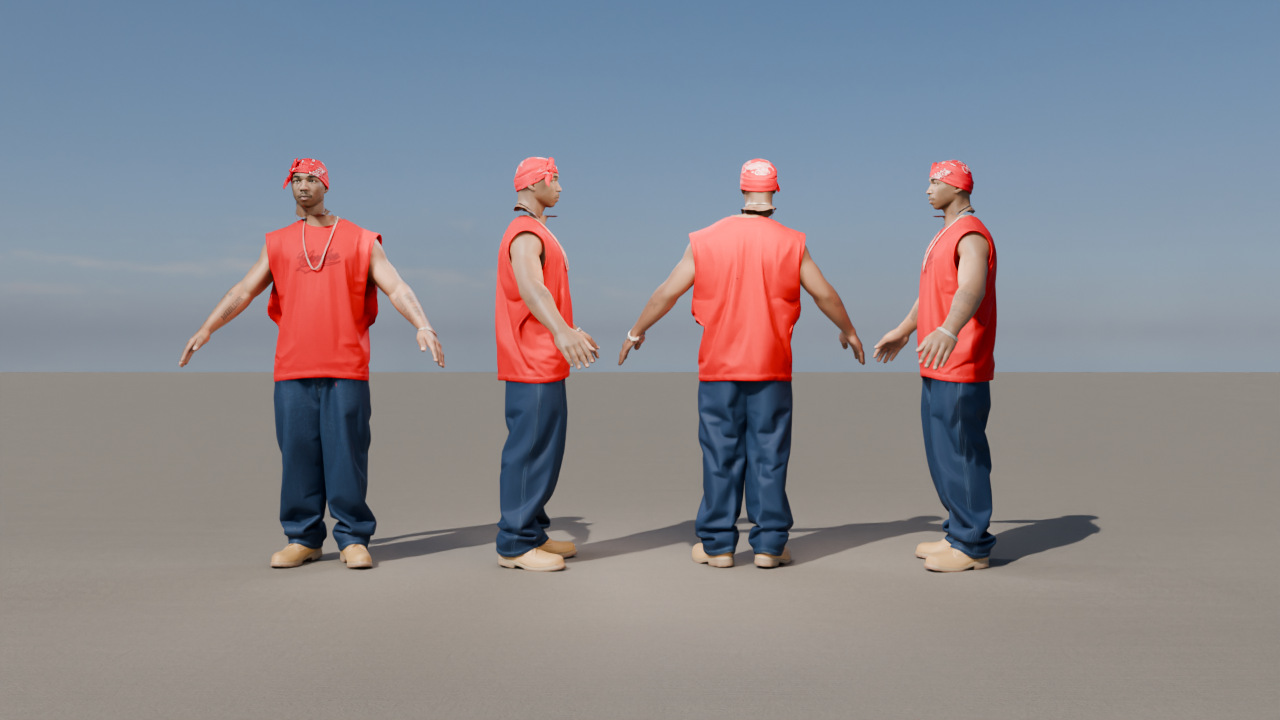
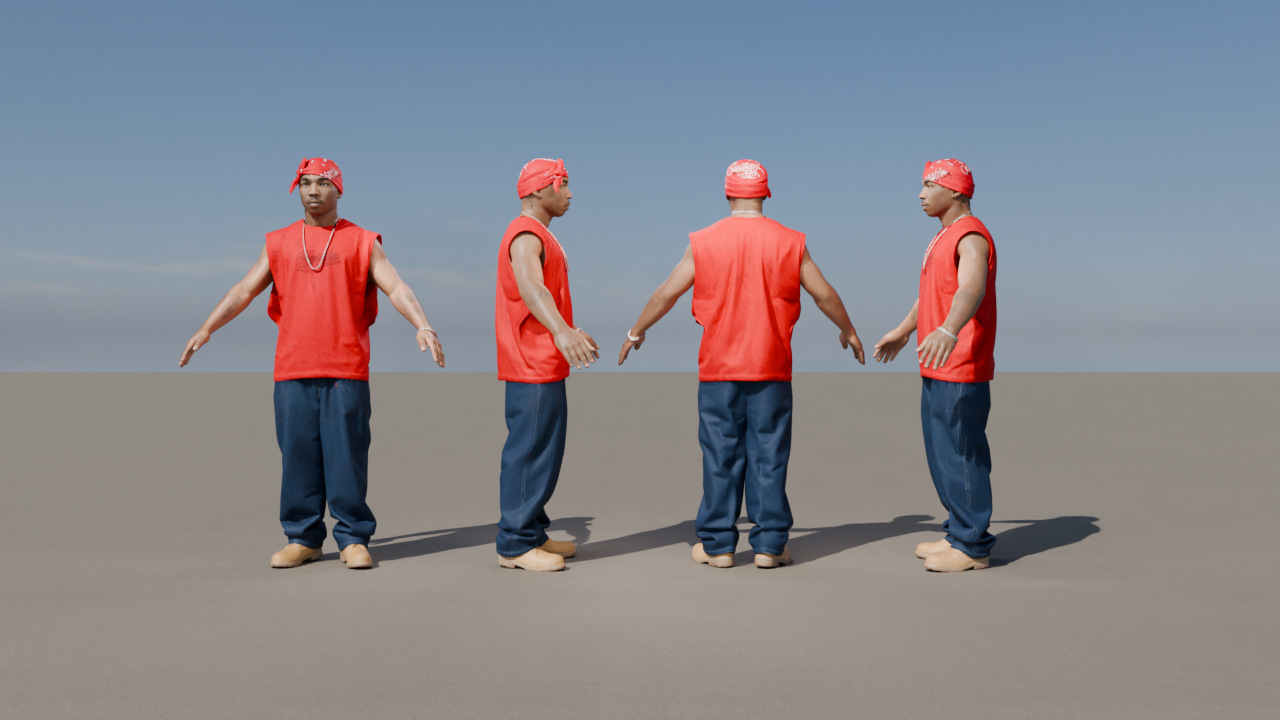
Rule likeness: previews round 1; fixes for round 2 (no swelling at the wrist union, palm colour by region, flat normals on island edges, skin tone, chunkier bracelet, bust neck edge under the collar)
Claude-Session: https://claude.ai/code/session_01HkcHdD7NbyxwnFfuuSpZY4

diff --git a/art/blender/assets/rule.py b/art/blender/assets/rule.py
@@ -175,7 +175,9 @@ def whole_field(R, hand):
     hf = hand.field(True)
 
     def f(p):
-        return sdf.smin(arm(p), hf(p), 0.011)
+        # nearly a plain union: the hand carries its own wrist piece with the same section as the arm there, and
+        # a wide smooth union of two coincident surfaces swells them (k / 4) and leaves a ring where one ends
+        return sdf.smin(arm(p), hf(p), 0.003)
     return f
 
 
@@ -449,15 +451,15 @@ def build_arms(ctx):
 
 
 def bracelet(col, R):
-    """SM_Character_RuleBracelet: a heavy silver curb chain, 26 links of 3.2 mm wire pressed flat and twisted
+    """SM_Character_RuleBracelet: a heavy silver curb chain, 24 links of 4.2 mm wire pressed flat and twisted
     against each other, hanging loose round the wrist (3 mm clear, 4 mm sag underneath), with a box clasp.
     Origin = attach frame (characters.attach_frame): X across the arm, Y toward the elbow, Z out of the back."""
     from mi import mat as _mat
     silver = _mat.flat("M_Character_RuleBracelet_Silver", (0.96, 0.95, 0.93), 0.12, 1.0)
     silver2 = _mat.flat("M_Character_RuleBracelet_SilverWorn", (0.90, 0.89, 0.87), 0.22, 1.0)
-    a = C._interp(FOREARM, BRACELET_S, 1) / 2 + 0.0030 + 0.0028
-    b = C._interp(FOREARM, BRACELET_S, 2) / 2 + 0.0030 + 0.0028
-    n = 26
+    a = C._interp(FOREARM, BRACELET_S, 1) / 2 + 0.0030 + 0.0032
+    b = C._interp(FOREARM, BRACELET_S, 2) / 2 + 0.0030 + 0.0032
+    n = 24
     pts, _t = C._ellipse_path(a, b, 600, sag=0.004)
     seg = np.linalg.norm(np.roll(pts, -1, axis=0) - pts, axis=1)
     cum = np.concatenate([[0], np.cumsum(seg)])
@@ -476,10 +478,10 @@ def bracelet(col, R):
             geo.transform(bx, loc=tuple(mid))
             parts.append(C._mat_all(bx, silver))
             continue
-        lk = geo.torus(major=0.0034, minor=0.0016, seg_major=40, seg_minor=12, name="Link",
-                       stretch=max(total / n * 1.8 - 0.0100, 0.001))
-        geo.transform(lk, scale=(1.0, 1.0, 0.60))
-        geo.transform(lk, rot=(34 if i % 2 else -34, 0, 0))
+        lk = geo.torus(major=0.0031, minor=0.0021, seg_major=30, seg_minor=10, name="Link",
+                       stretch=max(total / n * 1.9 - 0.0104, 0.001))
+        geo.transform(lk, scale=(1.0, 1.0, 0.55))
+        geo.transform(lk, rot=(40 if i % 2 else -40, 0, 0))
         ang = math.degrees(math.atan2(tang[2], tang[0]))
         geo.transform(lk, rot=(0, -ang, 0))
         geo.transform(lk, loc=tuple(mid))
@@ -513,6 +515,12 @@ def bake_skin(ctx, ob, res):
     hh = hh.reshape(H, W)
     hd = texel.dilate(hh, mask, 4)
     nrm = texel.normal_from_height(hd, maps["pos"], mask)
+    inner = mask.copy()                                    # the jagged edge texels of an island: flat normals
+    for ax in (0, 1):
+        for sh in (1, -1, 2, -2):
+            inner &= np.roll(mask, sh, axis=ax)
+    nrm[mask & ~inner] = (0.5, 0.5, 1.0)
+    nrm = texel.dilate(nrm, inner, 4)
     cav = np.clip(texel.blur(hd, 3) - hd, 0, None)
     ao = np.clip(1.0 - cav / 0.00025, 0.6, 1.0)
     aol = _bake._bake_ao(ob, 1024, 16, 0, 0.03, False)
@@ -535,7 +543,7 @@ def textured_materials():
     M_RuleArms_Nail default lit, both on the same three textures)."""
     out = {}
     d = paths.texture_set("RuleArms_Skin")
-    for name, sss, coat in (("M_RuleArms_Skin", 0.30, 0.0), ("M_RuleArms_Nail", 0.05, 0.35)):
+    for name, sss, coat in (("M_RuleArms_Skin", 0.18, 0.0), ("M_RuleArms_Nail", 0.05, 0.35)):
         m = bpy.data.materials.get(name) or bpy.data.materials.new(name)
         nt = m.node_tree
         for nd in list(nt.nodes):

diff --git a/art/blender/assets/_rule_body.py b/art/blender/assets/_rule_body.py
@@ -145,7 +145,7 @@ def swap_head(body, btex, head, htex, log=print):
     sl = (cb[:, 2] > zb + 0.015) & (cb[:, 2] < zb + 0.045) & ~redb & (np.abs(cb[:, 0]) < 0.12)
     hx, hy = _mid(cb[sl, 0]), _mid(cb[sl, 1])                       # centre of the neck's section
     near = np.hypot(cb[:, 0] - hx, cb[:, 1] - hy) < 0.085          # the neck, not the shoulders or arms
-    kill = (cb[:, 2] > zb + 0.06) | ((cb[:, 2] > zb - 0.055) & ~redb & near)
+    kill = (cb[:, 2] > zb + 0.06) | ((cb[:, 2] > zb - 0.03) & ~redb & near)
     gen3d.delete_faces(body, kill)
     log("  body: neckline z %.3f of %.3f, head and neck removed (%d faces)" % (zb, topb, kill.sum()))
     ch, nh, ah = gen3d.face_arrays(head)
@@ -166,11 +166,25 @@ def swap_head(body, btex, head, htex, log=print):
     sl = (ch2[:, 2] > 0.015) & (ch2[:, 2] < 0.045) & ~redh2
     dx, dy = hx - _mid(ch2[sl, 0]), hy - _mid(ch2[sl, 1])
     co += [dx, dy, zb]
-    # the bottom of the neck narrows a little so its cut edge stays inside the body's collar
-    t = np.clip((zb + 0.015 - co[:, 2]) / 0.035, 0, 1)
-    k = 1.0 - 0.10 * t
-    co[:, 0] = hx + (co[:, 0] - hx) * k
-    co[:, 1] = hy + (co[:, 1] - hy) * k
+    gen3d.set_verts(head, co)
+    # the cut edge of the bust's neck is carried 2.5 cm down (and its next ring half as far), so it ends under
+    # the body's collar all round instead of just above it at the front
+    import bmesh
+    bm = bmesh.new()
+    bm.from_mesh(head.data)
+    edge_v = {v.index for e in bm.edges if len(e.link_faces) == 1 for v in e.verts}
+    bm.verts.ensure_lookup_table()
+    ring = set()
+    for i in edge_v:
+        for e in bm.verts[i].link_edges:
+            ring.add(e.other_vert(bm.verts[i]).index)
+    ring -= edge_v
+    bm.free()
+    low = co[:, 2] < zb + 0.04
+    for idx, d in ((sorted(edge_v), 0.025), (sorted(ring), 0.012)):
+        idx = np.array([i for i in idx if low[i]], dtype=np.int64)
+        if len(idx):
+            co[idx, 2] -= d
     gen3d.set_verts(head, co)
     log("  head: neckline %.3f of %.3f in the bust, scale %.3f, %d faces removed; neck centres body (%.3f, %.3f), "
         "bust moved by (%.3f, %.3f)" % (zh, toph, s, killh.sum(), hx, hy, dx, dy))

diff --git a/art/blender/assets/_rule_tex.py b/art/blender/assets/_rule_tex.py
@@ -17,8 +17,8 @@ from . import characters as C
 from . import _characters_tex as X
 
 # his skin, measured on the reference sheet under even light (sRGB): back of the forearm, palm, nail bed
-SKIN = np.array(C.srgb("#7b4e35"), dtype=np.float32)
-PALM = np.array(C.srgb("#b07a62"), dtype=np.float32)
+SKIN = np.array(C.srgb("#6f4a39"), dtype=np.float32)
+PALM = np.array(C.srgb("#a7796a"), dtype=np.float32)
 KNUCKLE = np.array(C.srgb("#4e3022"), dtype=np.float32)
 NAIL = np.array(C.srgb("#b88f7f"), dtype=np.float32)
 LUNULA = np.array(C.srgb("#d6b8ab"), dtype=np.float32)
@@ -169,12 +169,12 @@ def skin_texels(R, P, N, region, side, charts):
     hand = T.smoothstep(0.035, 0.005, s)                                      # 1 on the hand, 0 up the forearm
     reg = np.rint(region).astype(int)
     # back / palm: by region where the faces say so, softened over the border of the hand
-    pal = np.where(lab > 0, T.smoothstep(0.15, -0.45, cosd), T.smoothstep(-0.002, -0.009, w))
-    pal = np.where(reg == 2, np.maximum(pal, 0.6), np.where(reg == 1, np.minimum(pal, 0.4), pal)) * hand
-    col = SKIN[None] * (1 - pal)[:, None] + PALM[None] * pal[:, None]
+    # the palm side by the faces' region (the border of a hand's palm skin is fairly sharp), softened on the
+    # fingers by the angle round each finger; the back of the hand keeps the arm's colour (no seam at the wrist)
+    pal = np.where(reg == 2, 1.0, 0.0)
+    pal = np.where((lab > 0) & (reg > 0), T.smoothstep(0.25, -0.35, cosd), pal) * hand
     mott = 1.0 + 0.07 * T.fbm(P, 1 / 0.012, 3, seed=32) + 0.04 * T.fbm(P, 1 / 0.003, 2, seed=33)
-    col = col * mott[:, None]
-    bc = bc * (1 - hand)[:, None] + col * hand[:, None]
+    bc = bc * (1 - pal)[:, None] + (PALM[None] * mott[:, None]) * pal[:, None]
     rough = rough * (1 - hand) + (0.46 + 0.10 * pal) * hand
     # knuckles: darker, folded skin over the joints on the back of the hand
     for i, f in enumerate(C.FINGERS):
